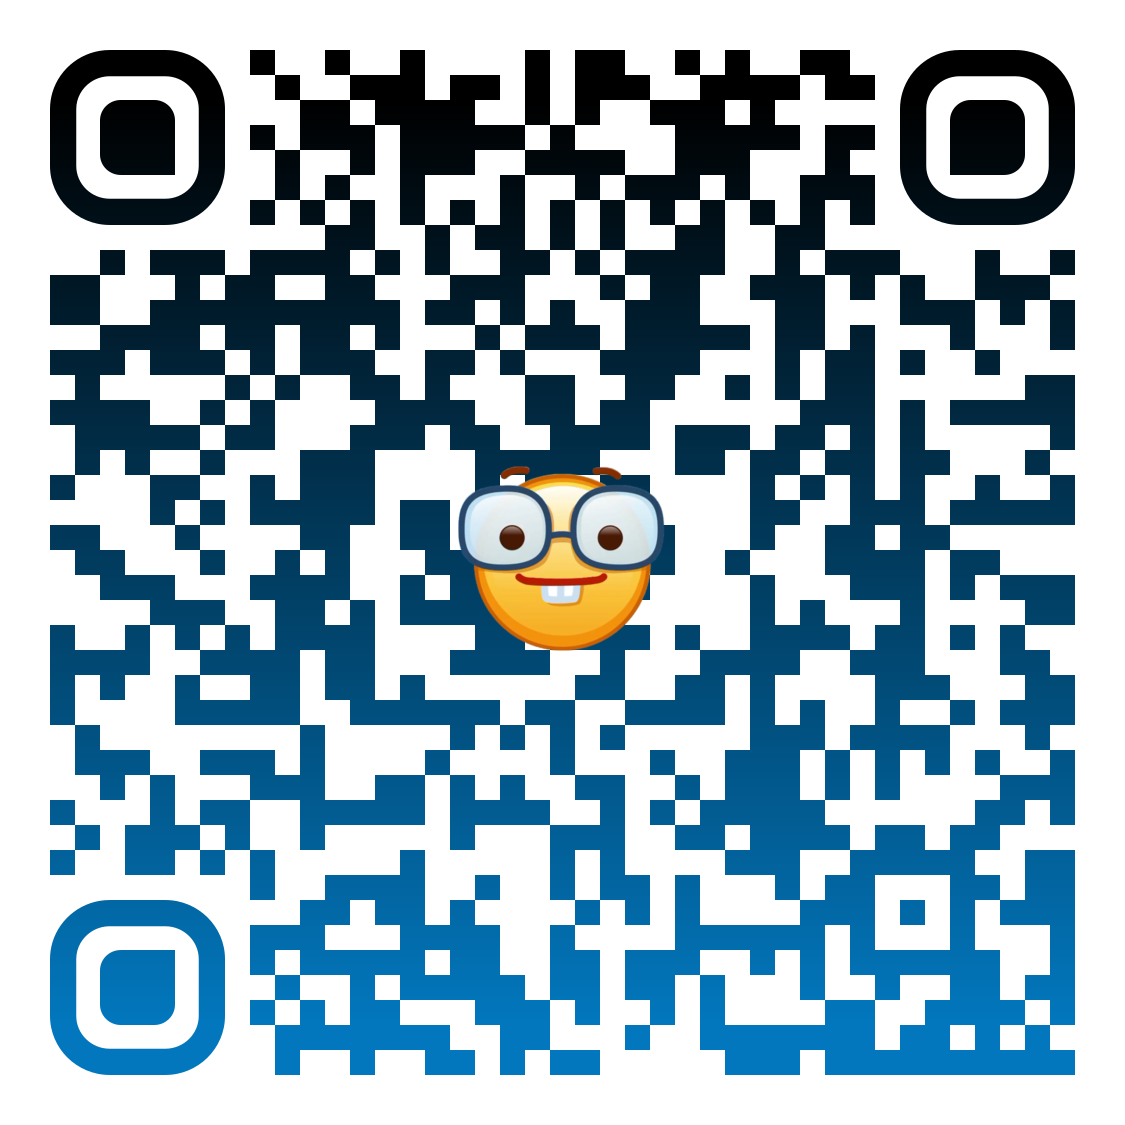
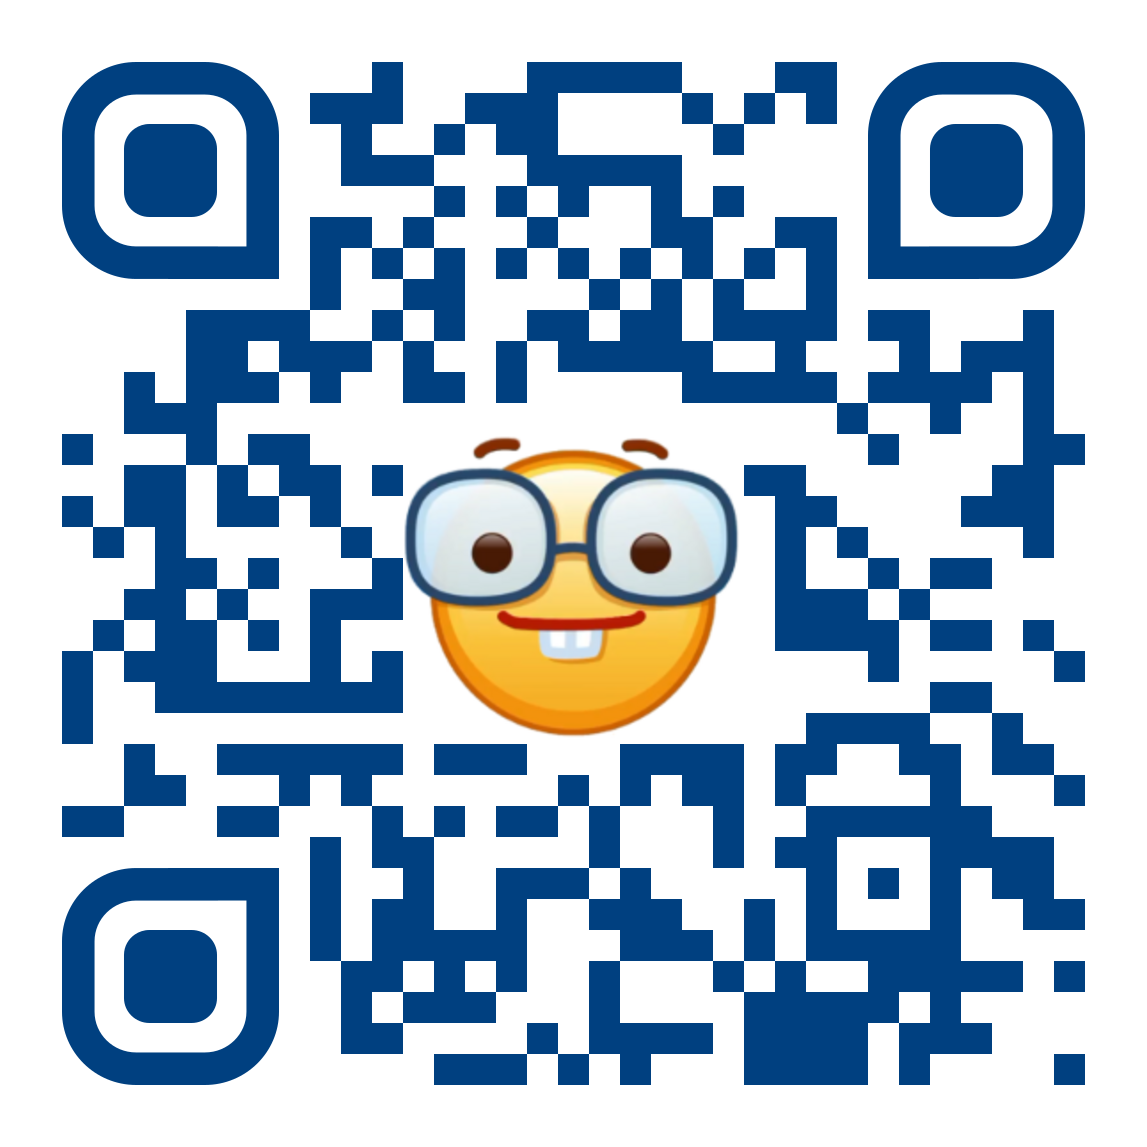
1.0.12.6 1. Логирование пути URL вместе с query-параметрами 2. Исправлена ошибка переполнения path в таблице logs и notifications 3. Обновлен qr-код на сайте

diff --git a/templates/main.html b/templates/main.html
@@ -83,7 +83,7 @@
             <aside id="qrCard" class="hero-card" aria-hidden="true">
                 <h3 style="justify-self:center">Скачать и установить</h3>
                 <div style="margin-top:8px; justify-self:center">
-                    <img src="/assets/index/qr-code.png" alt="QR - скачать" class="qr">
+                    <img src="/assets/index/qr-code.png?v=2" alt="QR - скачать" class="qr">
                 </div>
             </aside>
         </section>

diff --git a/src/models/notification_model.py b/src/models/notification_model.py
@@ -12,7 +12,7 @@ __all__ = ['Notification']
 class Notification(BaseModel):
     log_id: Mapped[int] = mapped_column(BigInteger, ForeignKey("logs.log_id", onupdate="CASCADE", ondelete="CASCADE"), primary_key=True)
     ip: Mapped[Optional[str]] = mapped_column(String(39), nullable=True)
-    path: Mapped[str] = mapped_column(String(128))
+    path: Mapped[str] = mapped_column(String(1024))
     session_id: Mapped[Optional[str]] = mapped_column(String(32), nullable=True)
     status: Mapped[bool] = mapped_column(Boolean)
     method: Mapped[str] = mapped_column(String(8), nullable=True)

diff --git a/src/models/log_model.py b/src/models/log_model.py
@@ -12,7 +12,7 @@ __all__ = ['Log']
 class Log(BaseModel):
     log_id: Mapped[int] = mapped_column(BigInteger, Identity(always=True), primary_key=True)
     ip: Mapped[Optional[str]] = mapped_column(String(39), nullable=True)
-    path: Mapped[str] = mapped_column(String(128))
+    path: Mapped[str] = mapped_column(String(1024))
     session_id: Mapped[Optional[str]] = mapped_column(String(32), nullable=True)
     status: Mapped[bool] = mapped_column(Boolean)
     method: Mapped[str] = mapped_column(String(8), nullable=True)

diff --git a/src/middlewares/logging.py b/src/middlewares/logging.py
@@ -33,7 +33,7 @@ class LoggingMiddleware(BaseHTTPMiddleware):
             service = LogService(get_log_uow_factory())
             await service.log(
                 ip=ip,
-                path=request.url.path,
+                path='?'.join(filter(None, (request.url.path, request.url.query))),
                 session_id=session_id,
                 status=not bool(error),
                 method=request.method,
